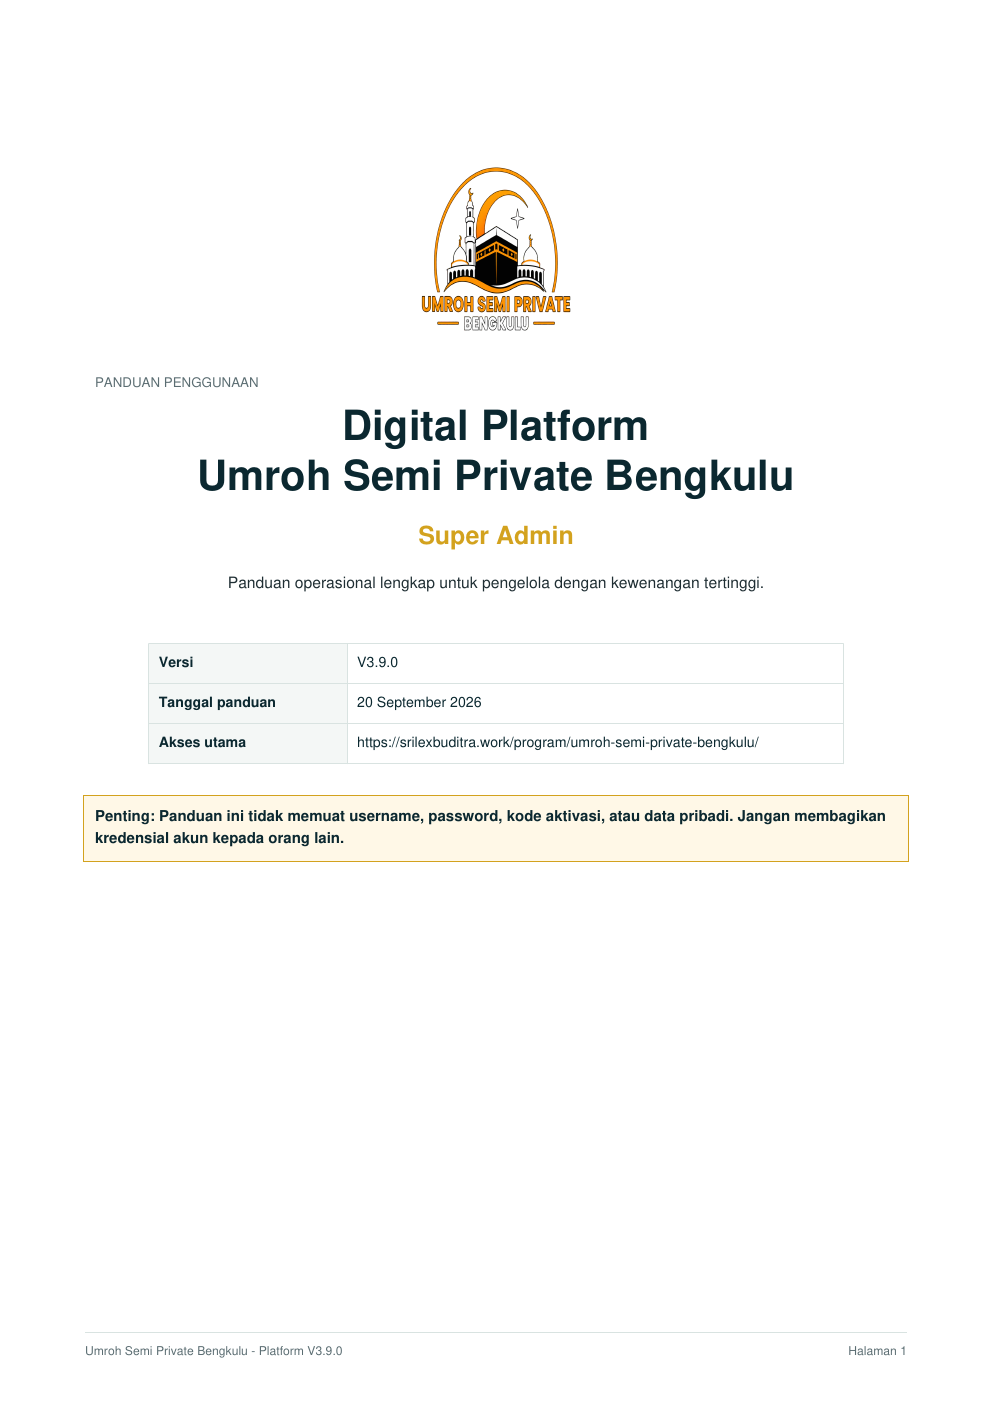
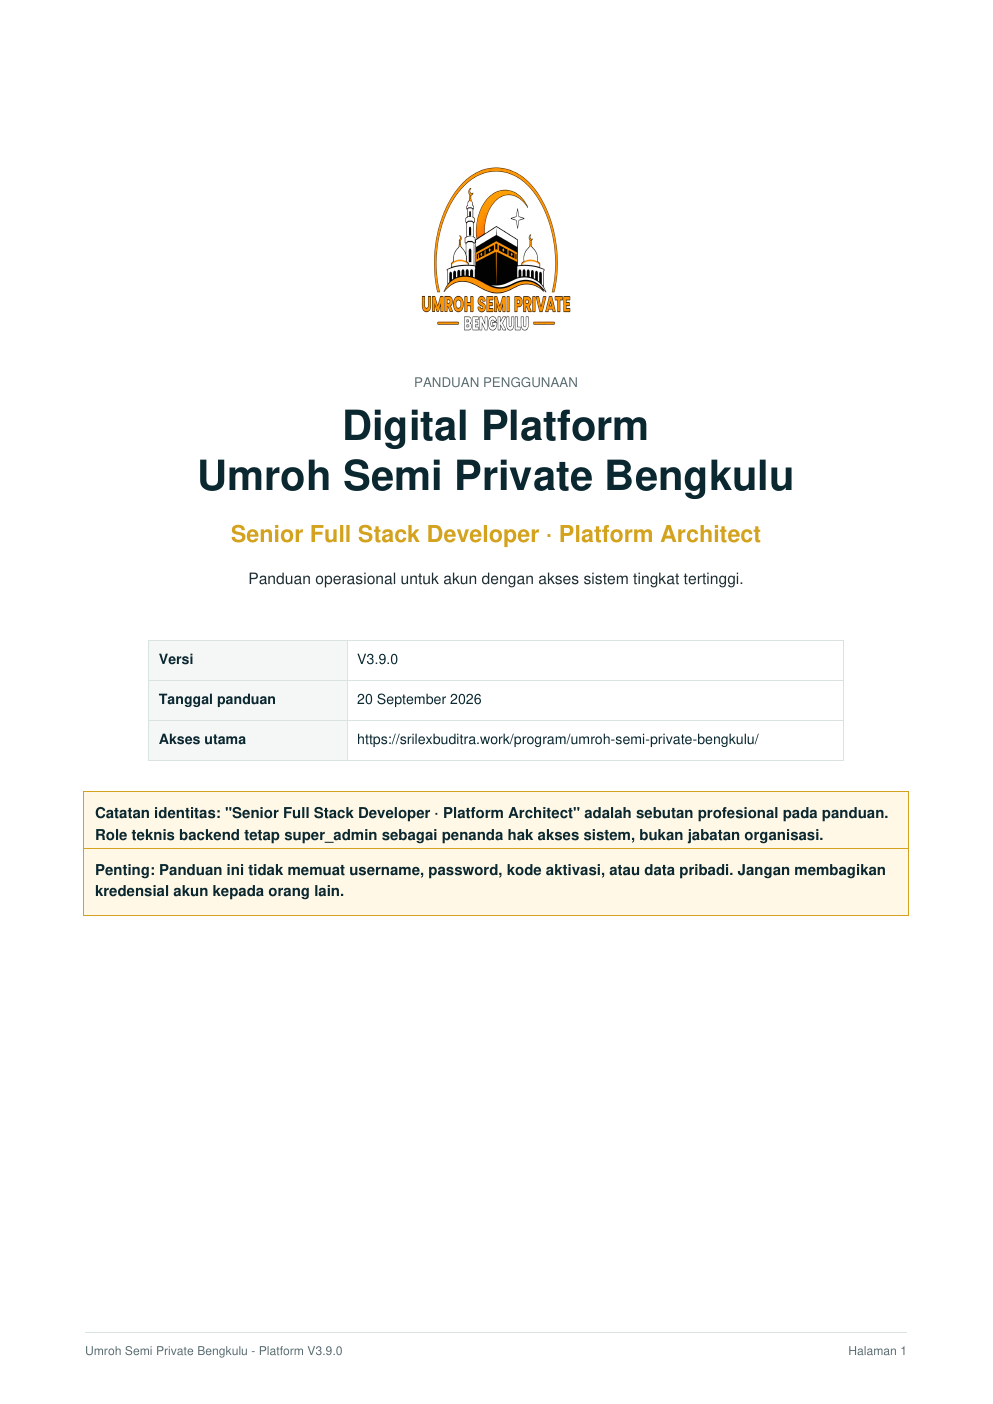
Tambahkan navigasi gambar dan perbarui identitas panduan V3.9.0.3

diff --git a/program/umroh-semi-private-bengkulu/assets/js/admin-role-guide.js b/program/umroh-semi-private-bengkulu/assets/js/admin-role-guide.js
@@ -4,7 +4,7 @@
   if (!root) return;
 
   const guides = {
-    super_admin: { label: 'Super Admin', file: 'panduan-super-admin-v3.9.0.pdf', preview: 'panduan-super-admin-v3.9.0', pages: 3, description: 'Panduan lengkap Ringkasan, Jemaah, Manasik, Agenda, Dokumen, Pengumuman, Manajemen Admin, dan Pengaturan.' },
+    super_admin: { label: 'Senior Full Stack Developer · Platform Architect', file: 'panduan-super-admin-v3.9.0.pdf', preview: 'panduan-super-admin-v3.9.0', pages: 3, description: 'Panduan untuk akun dengan akses sistem tingkat tertinggi: Ringkasan, Jemaah, Manasik, Agenda, Dokumen, Pengumuman, Manajemen Admin, dan Pengaturan.' },
     admin: { label: 'Admin', file: 'panduan-admin-v3.9.0.pdf', preview: 'panduan-admin-v3.9.0', pages: 3, description: 'Panduan operasional pengelolaan Jemaah, verifikasi dokumen, Manasik, Agenda, Pengumuman, dan Pengaturan yang diizinkan.' },
     tour_leader: { label: 'Tour Leader', file: 'panduan-tour-leader-v3.9.0.pdf', preview: 'panduan-tour-leader-v3.9.0', pages: 3, description: 'Panduan koordinasi perjalanan, Agenda, Pengumuman, Manasik, dan pemantauan Jemaah sesuai kewenangan role.' },
     pendamping: { label: 'Pendamping', file: 'panduan-pendamping-v3.9.0.pdf', preview: 'panduan-pendamping-v3.9.0', pages: 3, description: 'Panduan pemantauan dan pendampingan Jemaah, Agenda, Pengumuman, serta jalur eskalasi sesuai kewenangan role.' }
@@ -21,6 +21,18 @@
     const stage = document.createElement('div');
     stage.className = 'admin-role-guide-stage';
     const pages = [];
+
+    const imagePrev = document.createElement('button');
+    imagePrev.type = 'button';
+    imagePrev.className = 'admin-role-guide-image-nav admin-role-guide-image-nav-prev';
+    imagePrev.setAttribute('aria-label', 'Halaman panduan sebelumnya');
+    imagePrev.innerHTML = '<span aria-hidden="true">‹</span>';
+
+    const imageNext = document.createElement('button');
+    imageNext.type = 'button';
+    imageNext.className = 'admin-role-guide-image-nav admin-role-guide-image-nav-next';
+    imageNext.setAttribute('aria-label', 'Halaman panduan berikutnya');
+    imageNext.innerHTML = '<span aria-hidden="true">›</span>';
 
     for (let page = 1; page <= cfg.pages; page += 1) {
       const figure = document.createElement('figure');
@@ -70,15 +82,20 @@
       status.textContent = `Halaman ${current + 1} dari ${pages.length}`;
       prev.disabled = current === 0;
       next.disabled = current === pages.length - 1;
+      imagePrev.disabled = current === 0;
+      imageNext.disabled = current === pages.length - 1;
     }
 
     prev.addEventListener('click', () => show(current - 1));
     next.addEventListener('click', () => show(current + 1));
+    imagePrev.addEventListener('click', () => show(current - 1));
+    imageNext.addEventListener('click', () => show(current + 1));
     viewer.addEventListener('keydown', (event) => {
       if (event.key === 'ArrowLeft') { event.preventDefault(); show(current - 1); }
       if (event.key === 'ArrowRight') { event.preventDefault(); show(current + 1); }
     });
 
+    stage.append(imagePrev, imageNext);
     viewer.append(stage, nav);
     container.append(viewer);
     show(0);

diff --git a/program/umroh-semi-private-bengkulu/assets/css/bantuan.css b/program/umroh-semi-private-bengkulu/assets/css/bantuan.css
@@ -6,3 +6,14 @@ body.help-page{background:var(--app-bg,#f3f6f5);color:var(--text-primary,#10212a
 
 /* V3.9.0.2 paginated guide viewer */
 .help-guide-viewer{margin-top:12px}.help-guide-viewer.is-enhanced .help-guide-preview{display:block}.help-guide-viewer.is-enhanced .help-guide-page{display:none}.help-guide-viewer.is-enhanced .help-guide-page.is-active{display:block}.help-guide-nav{display:grid;grid-template-columns:auto 1fr auto auto;gap:10px;align-items:center;margin-top:12px;padding:10px;border:1px solid #d8e3e1;border-radius:14px;background:#fff}.help-guide-nav-button,.help-guide-page-button{appearance:none;border:1px solid #d7e1df;background:#fff;color:#0b2830;border-radius:9px;min-height:36px;padding:0 12px;font:inherit;font-size:12px;font-weight:800;cursor:pointer}.help-guide-nav-button:hover,.help-guide-page-button:hover{background:#f2f7f5}.help-guide-nav-button:disabled{opacity:.42;cursor:not-allowed}.help-guide-page-picker{display:flex;gap:6px;justify-content:center;flex-wrap:wrap}.help-guide-page-button{min-width:36px;padding:0 9px}.help-guide-page-button.is-active{background:#0b2830;color:#fff;border-color:#0b2830}.help-guide-page-status{font-size:12px;font-weight:800;color:#5d7075;white-space:nowrap}@media(max-width:760px){.help-guide-nav{grid-template-columns:1fr 1fr}.help-guide-page-picker{grid-column:1/-1;grid-row:1}.help-guide-page-status{grid-column:1/-1;text-align:center;grid-row:2}.help-guide-nav-button{grid-row:3;width:100%}}
+
+
+/* V3.9.0.3 image-edge navigation */
+.help-guide-viewer.is-enhanced .help-guide-preview{position:relative}
+.help-guide-image-nav{position:absolute;top:50%;z-index:8;display:flex;align-items:center;justify-content:center;width:48px;height:48px;margin:0;padding:0;border:1px solid rgba(255,255,255,.82);border-radius:999px;background:rgba(11,40,48,.86);color:#fff;box-shadow:0 8px 24px rgba(11,40,48,.22);transform:translateY(-50%);cursor:pointer;transition:transform .16s ease,background .16s ease,opacity .16s ease}
+.help-guide-image-nav span{font-size:36px;line-height:1;transform:translateY(-1px)}
+.help-guide-image-nav-prev{left:22px}.help-guide-image-nav-next{right:22px}
+.help-guide-image-nav:hover:not(:disabled){background:#0b2830;transform:translateY(-50%) scale(1.06)}
+.help-guide-image-nav:focus-visible{outline:3px solid #d3a21e;outline-offset:3px}
+.help-guide-image-nav:disabled{opacity:.24;cursor:not-allowed}
+@media(max-width:760px){.help-guide-image-nav{width:42px;height:42px}.help-guide-image-nav span{font-size:31px}.help-guide-image-nav-prev{left:10px}.help-guide-image-nav-next{right:10px}}

diff --git a/program/umroh-semi-private-bengkulu/assets/css/admin-dashboard.css b/program/umroh-semi-private-bengkulu/assets/css/admin-dashboard.css
@@ -24,3 +24,14 @@
 
 /* V3.9.0.2 paginated role guide */
 .admin-role-guide-viewer{outline:none}.admin-role-guide-stage{margin-top:12px}.admin-role-guide-nav{display:grid;grid-template-columns:auto 1fr auto auto;gap:10px;align-items:center;margin-top:12px;padding:10px;border:1px solid #d7e1df;border-radius:12px;background:#fff}.admin-role-guide-nav-button,.admin-role-guide-page-button{appearance:none;border:1px solid #d7e1df;background:#fff;color:#0b2830;border-radius:9px;min-height:36px;padding:0 12px;font:inherit;font-size:12px;font-weight:800;cursor:pointer}.admin-role-guide-nav-button:hover,.admin-role-guide-page-button:hover{background:#f2f7f5}.admin-role-guide-nav-button:disabled{opacity:.42;cursor:not-allowed}.admin-role-guide-page-picker{display:flex;gap:6px;justify-content:center;flex-wrap:wrap}.admin-role-guide-page-button{min-width:36px;padding:0 9px}.admin-role-guide-page-button.is-active{background:#0b2830;color:#fff;border-color:#0b2830}.admin-role-guide-page-status{font-size:12px;font-weight:800;color:#5d7075;white-space:nowrap}@media(max-width:760px){.admin-role-guide-nav{grid-template-columns:1fr 1fr}.admin-role-guide-page-picker{grid-column:1/-1;grid-row:1}.admin-role-guide-page-status{grid-column:1/-1;grid-row:2;text-align:center}.admin-role-guide-nav-button{grid-row:3;width:100%}}
+
+
+/* V3.9.0.3 image-edge role-guide navigation */
+.admin-role-guide-stage{position:relative}
+.admin-role-guide-image-nav{position:absolute;top:50%;z-index:8;display:flex;align-items:center;justify-content:center;width:48px;height:48px;margin:0;padding:0;border:1px solid rgba(255,255,255,.82);border-radius:999px;background:rgba(11,40,48,.86);color:#fff;box-shadow:0 8px 24px rgba(11,40,48,.22);transform:translateY(-50%);cursor:pointer;transition:transform .16s ease,background .16s ease,opacity .16s ease}
+.admin-role-guide-image-nav span{font-size:36px;line-height:1;transform:translateY(-1px)}
+.admin-role-guide-image-nav-prev{left:22px}.admin-role-guide-image-nav-next{right:22px}
+.admin-role-guide-image-nav:hover:not(:disabled){background:#0b2830;transform:translateY(-50%) scale(1.06)}
+.admin-role-guide-image-nav:focus-visible{outline:3px solid #d3a21e;outline-offset:3px}
+.admin-role-guide-image-nav:disabled{opacity:.24;cursor:not-allowed}
+@media(max-width:760px){.admin-role-guide-image-nav{width:42px;height:42px}.admin-role-guide-image-nav span{font-size:31px}.admin-role-guide-image-nav-prev{left:10px}.admin-role-guide-image-nav-next{right:10px}}

diff --git a/program/umroh-semi-private-bengkulu/assets/js/jamaah-guide-viewer.js b/program/umroh-semi-private-bengkulu/assets/js/jamaah-guide-viewer.js
@@ -8,10 +8,25 @@
   const next = viewer.querySelector('[data-guide-next]');
   const status = viewer.querySelector('[data-guide-status]');
   const picker = viewer.querySelector('[data-guide-picker]');
+  const stage = viewer.querySelector('[data-help-guide-pages]');
   if (!pages.length) return;
 
   let current = 0;
   viewer.classList.add('is-enhanced');
+
+  const imagePrev = document.createElement('button');
+  imagePrev.type = 'button';
+  imagePrev.className = 'help-guide-image-nav help-guide-image-nav-prev';
+  imagePrev.setAttribute('aria-label', 'Halaman panduan sebelumnya');
+  imagePrev.innerHTML = '<span aria-hidden="true">‹</span>';
+
+  const imageNext = document.createElement('button');
+  imageNext.type = 'button';
+  imageNext.className = 'help-guide-image-nav help-guide-image-nav-next';
+  imageNext.setAttribute('aria-label', 'Halaman panduan berikutnya');
+  imageNext.innerHTML = '<span aria-hidden="true">›</span>';
+
+  stage?.append(imagePrev, imageNext);
 
   const buttons = pages.map((_, index) => {
     const button = document.createElement('button');
@@ -39,10 +54,14 @@
     if (status) status.textContent = `Halaman ${current + 1} dari ${pages.length}`;
     if (prev) prev.disabled = current === 0;
     if (next) next.disabled = current === pages.length - 1;
+    imagePrev.disabled = current === 0;
+    imageNext.disabled = current === pages.length - 1;
   }
 
   prev?.addEventListener('click', () => show(current - 1));
   next?.addEventListener('click', () => show(current + 1));
+  imagePrev.addEventListener('click', () => show(current - 1));
+  imageNext.addEventListener('click', () => show(current + 1));
   viewer.addEventListener('keydown', (event) => {
     if (event.key === 'ArrowLeft') { event.preventDefault(); show(current - 1); }
     if (event.key === 'ArrowRight') { event.preventDefault(); show(current + 1); }

diff --git a/program/umroh-semi-private-bengkulu/jamaah/bantuan/index.html b/program/umroh-semi-private-bengkulu/jamaah/bantuan/index.html
@@ -10,7 +10,7 @@
 <link href="../../assets/css/tokens.css" rel="stylesheet"/>
 <link href="../../assets/css/visual-assets.css" rel="stylesheet"/>
 <link href="../../assets/css/jamaah-auth.css" rel="stylesheet"/>
-<link href="../../assets/css/bantuan.css" rel="stylesheet"/>
+<link href="../../assets/css/bantuan.css?v=3.9.0.3" rel="stylesheet"/>
 <link href="/program/umroh-semi-private-bengkulu/branding/favicon.ico" rel="icon" sizes="any"/>
 <link href="/program/umroh-semi-private-bengkulu/branding/favicon-32x32.png" rel="icon" sizes="32x32" type="image/png"/>
 <link href="/program/umroh-semi-private-bengkulu/branding/favicon-16x16.png" rel="icon" sizes="16x16" type="image/png"/>
@@ -118,7 +118,7 @@
 <footer class="help-footer"><span>Platform V3.9.0 · Bantuan Jemaah.</span><span>Pengembangan Sistem &amp; Dukungan Teknologi · <a href="https://srilexbuditra.work/">Srilex Buditra</a></span></footer>
 </div>
 <script src="../../assets/js/jamaah-auth-guard.js?v=3.4.1"></script>
-<script src="../../assets/js/jamaah-guide-viewer.js?v=3.9.0.2"></script>
+<script src="../../assets/js/jamaah-guide-viewer.js?v=3.9.0.3"></script>
 <script defer="" src="/assets/js/visitor-analytics.js?v=6.11.0.13"></script>
 </body>
 </html>

diff --git a/program/umroh-semi-private-bengkulu/admin/index.html b/program/umroh-semi-private-bengkulu/admin/index.html
@@ -9,7 +9,7 @@
 <title>Dashboard Admin | Umroh Semi Private Bengkulu</title>
 <link href="../assets/css/tokens.css" rel="stylesheet"/>
 <link href="../assets/css/dashboard-shell.css" rel="stylesheet"/>
-<link href="../assets/css/admin-dashboard.css" rel="stylesheet"/>
+<link href="../assets/css/admin-dashboard.css?v=3.9.0.3" rel="stylesheet"/>
 <link href="../assets/css/visual-assets.css" rel="stylesheet"/>
 <link href="../assets/css/admin-auth.css" rel="stylesheet"/><link href="/program/umroh-semi-private-bengkulu/branding/favicon.ico" rel="icon" sizes="any"/>
 <link href="/program/umroh-semi-private-bengkulu/branding/favicon-32x32.png" rel="icon" sizes="32x32" type="image/png"/>
@@ -108,5 +108,5 @@
 <script src="../assets/js/dashboard-shell.js"></script>
 <script src="../assets/js/admin-operational-summary.js?v=3.7.0"></script>
 <script src="../assets/js/admin-agenda-summary.js?v=3.7.0"></script>
-<script src="../assets/js/admin-role-guide.js?v=3.9.0.2"></script></body>
+<script src="../assets/js/admin-role-guide.js?v=3.9.0.3"></script></body>
 </html>
